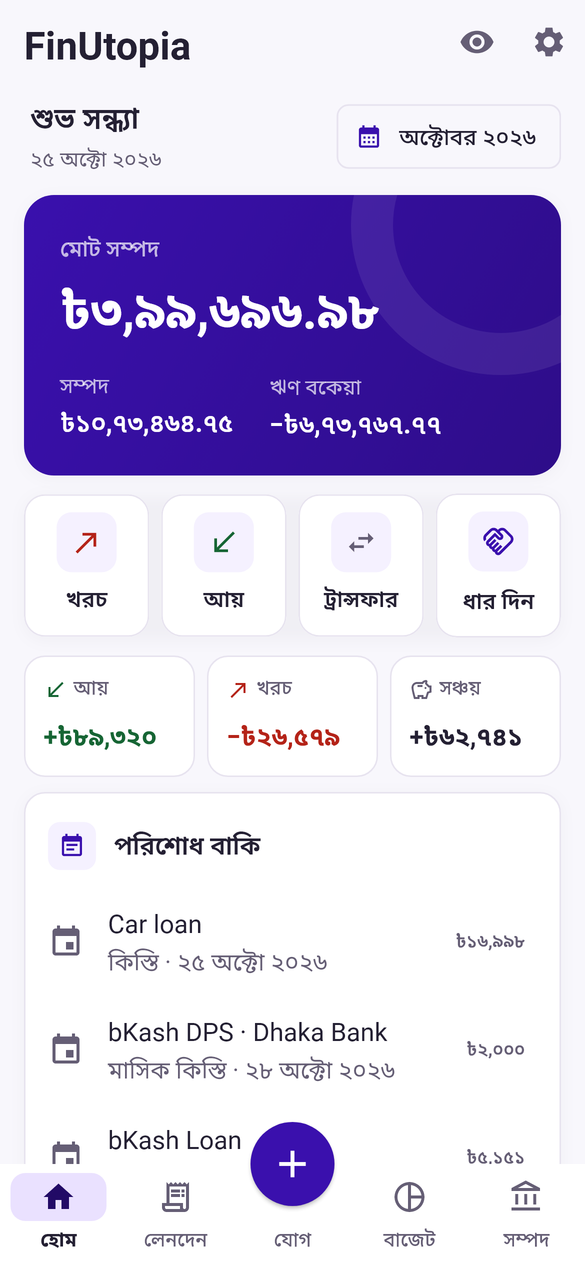
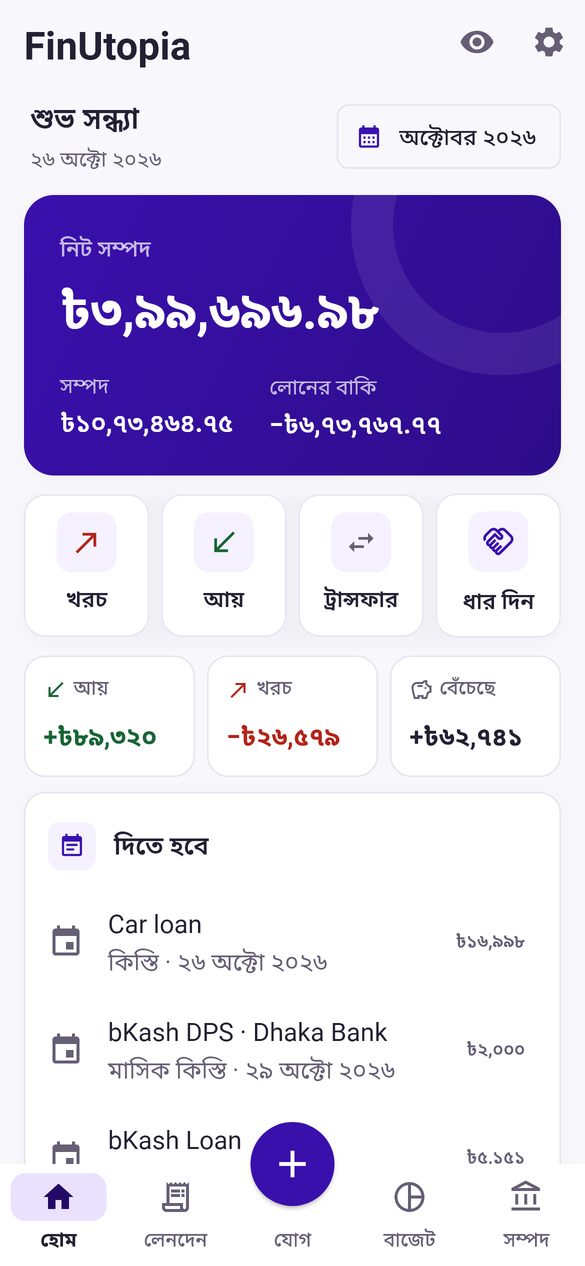
README: finance companies and natural Bangla (0.2.15)

diff --git a/README.md b/README.md
@@ -29,7 +29,7 @@ way it actually works in Bangladesh: cash in your pocket, bKash and Nagad on you
 account, a DPS you pay every month, Sanchayapatra that pays you every month, an EMI you owe, and an
 insurance premium coming up. It shows where you stand today and what is coming next.
 
-- **Made for Bangladesh.** bKash, Nagad, Rocket and every major bank with its own logo. Amounts in
+- **Made for Bangladesh.** bKash, Nagad, Rocket, every major bank and the finance companies (NBFIs), with their logos. Amounts in
   lakh and crore (৳3,97,296). Sanchayapatra rate tables and tax bands, bank source tax and excise
   duty, and bKash DPS and bKash Loan built in.
 - **Your whole picture, not just spending.** Spending, budgets, savings, loans and insurance live
@@ -40,7 +40,8 @@ insurance premium coming up. It shows where you stand today and what is coming n
 - **Private by design.** No sign-up and no server. Your data stays on your phone in an encrypted
   database, behind an optional PIN or fingerprint. Backups are encrypted with a passphrase only
   you know, so even Google Drive can't read them.
-- **Bangla first.** The whole app works in Bangla or English, with Bangla or English digits.
+- **Bangla first.** The whole app works in Bangla or English, with Bangla or English digits. The
+  Bangla reads the way Bangladeshi banks and bKash talk, not like a translation.
 
 ## Key features
 
@@ -64,6 +65,7 @@ insurance premium coming up. It shows where you stand today and what is coming n
 - **Profit straight to your bank:** monthly or quarterly profit is added to your bank account on its day, after tax
 - **bKash DPS** with BRAC Bank, Dhaka Bank, Eastern Bank, IDLC, MTB and City Bank, paid from and back into bKash, monthly or weekly (from Tk 250 a week)
 - **bKash FDR** with Eastern Bank or IDLC: Tk 10,000 to 1 lakh for 6 or 12 months, profit every 3 or 6 months into bKash
+- **Finance companies:** the 30 NBFIs that take deposits (IDLC, IPDC, LankaBangla, DBH and more) for FDRs, DPSs and loans, with a caution on the nine Bangladesh Bank is winding up
 
 **Loans and EMIs**
 - Bank loans, card EMIs, money from family, already-running loans
